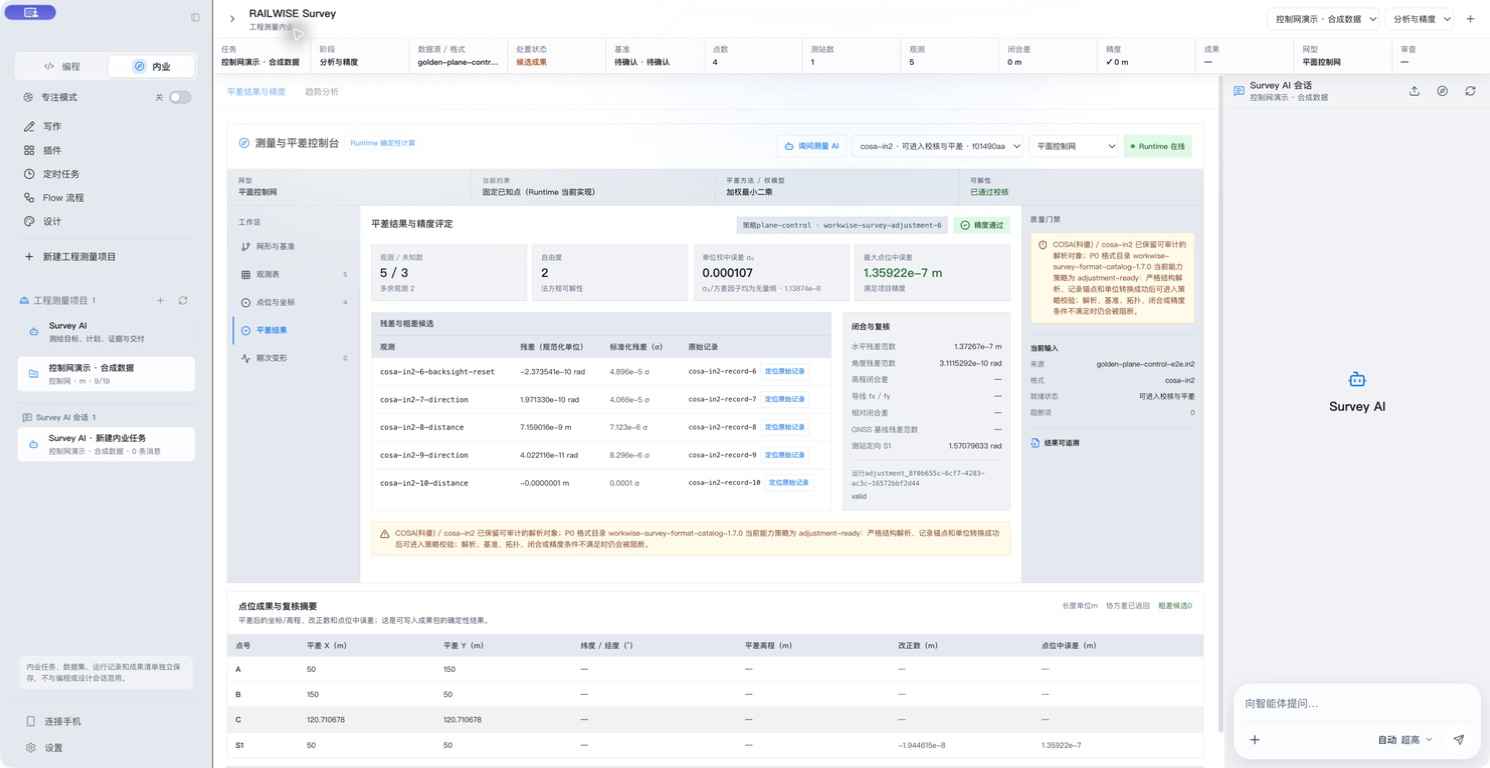
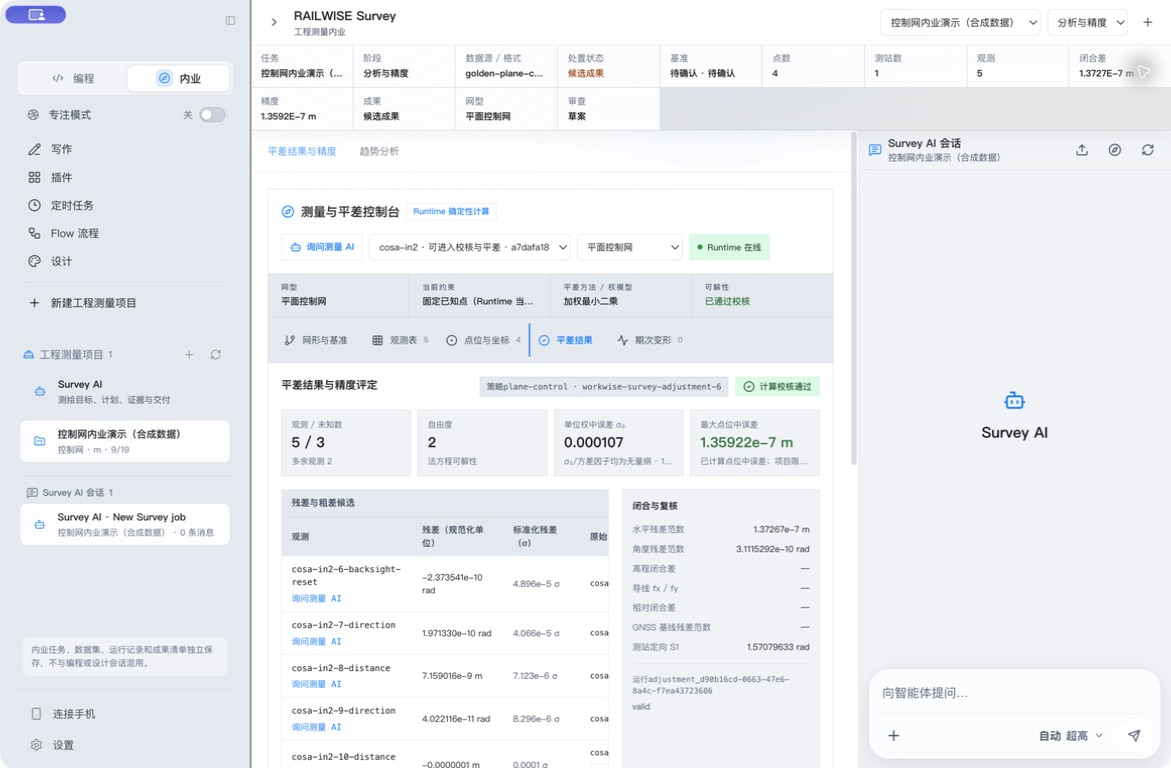
docs(survey): record b8df979 package acceptance and refresh candidate screenshots

diff --git a/docs/qa/RAILWISE_SURVEY_CONVERGENCE_STATUS.md b/docs/qa/RAILWISE_SURVEY_CONVERGENCE_STATUS.md
@@ -2,7 +2,7 @@
 
 更新：2026-09-19。产品基线为用户提供的《RAILWISE AI ｜ Survey 产品收敛与命名迁移总计划》。
 
-代码实现、自动化通过、安装包验收和用户确认分别记录。旧 OpenSpec 的历史勾选不代表新计划完成。最近完成双格式 GUI 验证的源码提交：`613e99012a0b004d19e36f626950da0e6745614c`。后续诊断双语增量已在 d11f922 签名安装包中完成合成 IN2 GUI 复验；后续缺陷修正另行记录。
+代码实现、自动化通过、安装包验收和用户确认分别记录。旧 OpenSpec 的历史勾选不代表新计划完成。最近完成双格式 GUI 验证的源码提交：`613e99012a0b004d19e36f626950da0e6745614c`。后续诊断双语增量已在 d11f922 签名安装包中完成合成 IN2 GUI 复验；后续精度、离线门禁、原始记录追问及品牌图标已进入 b8df979 签名包并完成合成 GUI 复验。
 
 ## P0 与品牌迁移
 
@@ -21,9 +21,9 @@
 | 证据与原始记录 | 已实现哈希、解析器、锚点与残差定位 | 全类型结果一键追问、定位往返、审查状态联动实机验证 |
 | 中英文 locale | 主界面与品牌文案已迁移，示例固定中文已清除 | 缺失基准占位已翻译；新增双语诊断合同、14 类诊断目录、P0 策略及 COSA 文件组/GSI 分支译文。其余诊断及旧记录完整 locale 仍未完成 |
 | 主入口与侧边工具 | 编程/内业主入口，侧边工具保留 | 613e990 的写作/插件/定时任务/Flow/设计五个入口往返已通过，任务与阶段恢复 |
-| 平台显示品牌 | 共用配置覆盖菜单/启动/设置/关于/候选名，更多文案改变量 | R 品牌 SVG / PNG / Dock / 托盘 / ICO / ICNS 已生成，保留旧路径；待新候选包及用户确认 |
+| 平台显示品牌 | 共用配置覆盖菜单/启动/设置/关于/候选名，更多文案改变量 | R 品牌资产已进入 b8df979 签名包，保留旧路径；实际 Dock/托盘外观及用户确认尚缺 |
 | README 与软件介绍 | 本地文档已更新命名边界、V4.1-Flash 与能力范围 | 官网本地介绍已重写为四阶段生产链；README、介绍及截图已同步至 GitHub 草稿 PR #28；main 合入及官网上线仍未完成 |
-| 官网截图 | 本轮不使用含真实工程数据的截图作为营销图 | 613e990 中文浅色合成数据截图已实拍并替换本地首页；未部署，线上未核验 |
+| 官网截图 | 本轮不使用含真实工程数据的截图作为营销图 | b8df979 中文浅色合成数据三图已替换本地首页；未部署，线上未核验 |
 | 签名/公证 | 613e990 的 Developer ID 签名通过；无公证票据 | 本机无 Apple 公证配置；不得用当前 Gatekeeper 成功代替公证 |
 | 安装/升级链 | 613e990 已独立安装，合成任务重启恢复通过；未动正式应用和数据 | 私有 HTTPS feed、真实 updater 往返与数据保留；公开 acceptance 路径不符合要求 |
 | 主题/尺寸/键盘 | a81cc3a 实机切换英文深色、中文浅色，发现布局缺陷并修复 | 613e990 中文浅色常规/最大化、英文深色审查已检查；窄窗口未成功缩窄，键盘/a11y 全检未完成 |
@@ -94,8 +94,14 @@
 - Runtime 断连后锁定校核、平差和重校核入口，保留历史证据可读；处理函数也检查在线和准入条件。
 - 文件选择改为可键盘操作的本地化按钮，隐藏系统语言控制的 input 提示；英文来源详情的 COSA 厂商名已修正。
 - 工程界面 15 文件 / 84 项测试通过；类型检查、针对性 lint 通过。第一次测试中两个旧选择器选到了新按钮而非 input，已修正为 input 选择器并重跑全部工程界面测试。
-- 以上新修正尚未进入 d11f922 安装包；不宣称视觉验收完成。全量 locale 和 P1/P2 仍按前述未完成项保留；品牌图标资产已迁移，安装包验收仍待完成。
+- 以上修正不在历史 d11f922 包内，已由下方 b8df979 记录承接。全量 locale 和 P1/P2 仍按前述未完成项保留。
 
 - 残差行新增一键准备 AI 追问，携带网络 revision、来源 SHA-256、运行/算法 ID 和原始记录锚点；不覆盖已有问题、不自动发送、不构成执行审批。自动化验证问题发送时带入引用，真实模型回合仍待配置。
 - 桌面全量 307 文件通过、1 个旧品牌断言失败、2 跳过，2473 项通过；旧图标断言已更新并定向补测 7/7 通过，合计 2474 项。工程界面 85 项通过。完整类型检查、构建通过，lint 仅既有 Workbench Hook warning。
 - 品牌图标由 resvg 直接生成，PNG RGBA/尺寸、7 档 ICO 与 11 个 ICNS 元素通过结构检查；SVG 与 PNG 已目视查看。依赖锁文件同步既有 package.json 的 0.5.0，未提升公开版本。
+
+## b8df979 精确包证据收口
+
+[完整验收记录](./evidence/railwise-convergence-b8df9790e37f/README.md)：Developer ID 签名、双真实格式 Runtime 校验、合成 IN2 GUI 成果链、六份成果的两轮哈希检查、任务重命名与重启恢复完成。中文浅色常规/最大化、英文深色审查及微小非零摘要已检查。三张官网候选图已换成本包中文浅色合成数据实拍，未上线。
+
+当前源码 CI 全绿：桌面 2474 通过/2 跳过，Runtime 1588 通过/3 跳过。窄窗口、全键盘、Dock/托盘实机、真实模型、真实旧数据、公证/updater 和用户专业确认仍未完成。

diff --git a/docs/qa/evidence/railwise-convergence-b8df9790e37f/README.md b/docs/qa/evidence/railwise-convergence-b8df9790e37f/README.md
@@ -1,0 +1,14 @@
+# b8df979 签名候选验收
+
+2026-09-19，精确源码 `b8df9790e37fc6dc42dac0dec30a4a69799b681b`，版本 0.5.0，隔离候选，未公开发布。包身份、截图哈希及检查范围见 [acceptance.json](./acceptance.json)。
+
+- Developer ID 严格深层签名通过；无公证票据（stapler 65）。本机 Gatekeeper 返回 security-disabled override，不能算正常公证验收；没有修改安全设置。
+- 首次打包因既有 SQLite 失效符号链接失败。链接原样保存在私有候选目录，移出依赖目录后使用同一固定 builder 重试成功。
+- 已安装包的真实 GSI、IN2 Runtime 导入、校核、平差和三种输出检查通过；它们不替代本包双真实 GUI 验收。GSI 独立比较最大差 0.020316 mm，IN2 最大差 0.063416 mm；GSI 七处来源转换差异仍需专业复核。
+- GUI 原生文件选择器导入可再分发合成 IN2，完成校核、平差、DOCX/PDF/XLSX、待审查清单。任务重命名后重新生成 revision 3 的三份文件，磁盘 SHA-256 均与清单一致，见 [gui-artifact-hashes.json](./gui-artifact-hashes.json)。全部成果仍为 draft。
+- 残差一键追问准备了问题和精确来源引用，并聚焦输入框；没有发送模型问题。摘要显示微小非零闭合差、精度；“计算校核通过”不再表示满足未指定的项目限差。
+- 中文浅色常规 1171×768、最大化 1491×768，以及英文深色审查页已目视检查。重启后进入内业，任务、阶段和两份历史清单恢复。拖动未改变最窄窗口尺寸，因此窄窗口、全键盘和实际 Dock/托盘外观仍未验收。
+- 应用包 ICNS 与新品牌源资源哈希一致；旧资产文件名保持兼容。官网候选三图更新为本包中文浅色合成数据实拍，仍未部署。
+- GitHub 当前源码检查通过：桌面 2474/2 skipped、Runtime 1588/3 skipped、Electron smoke、Windows 相关检查、类型检查、构建与 OpenSpec；lint 仅一条既有 Hook warning。
+
+公证、私有 HTTPS updater 往返、真实模型回合、真实旧用户数据迁移和用户专业确认未完成。全量 locale、全状态及 P1/P2 仍见[总台账](../../RAILWISE_SURVEY_CONVERGENCE_STATUS.md)。locale-inventory.json 只统计含中文字符串的位置，不能把中文目录原文或输入识别代码都算成未翻译缺陷。

diff --git a/README.en.md b/README.en.md
@@ -36,7 +36,7 @@ See the [engineering survey workbench overview](./docs/ENGINEERING_SURVEY_WORKBE
 
 ## Candidate UI preview
 
-These Chinese light-theme screenshots were captured from installed candidate `613e99012a0b` using redistributable synthetic data. They do not replace the released 0.5.0 installers. Real GSI and IN2 GUI delivery runs passed; notarization, a real private updater round trip and human professional acceptance remain incomplete.
+These Chinese light-theme screenshots were captured from installed candidate `b8df9790e37f` using redistributable synthetic data. They do not replace the released 0.5.0 installers. This package passed the synthetic IN2 GUI delivery flow and real GSI/IN2 Runtime checks; dual real-format GUI evidence belongs to historical candidate `613e99012a0b`. Notarization, a real private updater round trip and human professional acceptance remain incomplete.
 
 ![RAILWISE Survey candidate with synthetic data](./website/products/screenshots/workwise/04-survey-candidate-zh-light.jpg)
 
